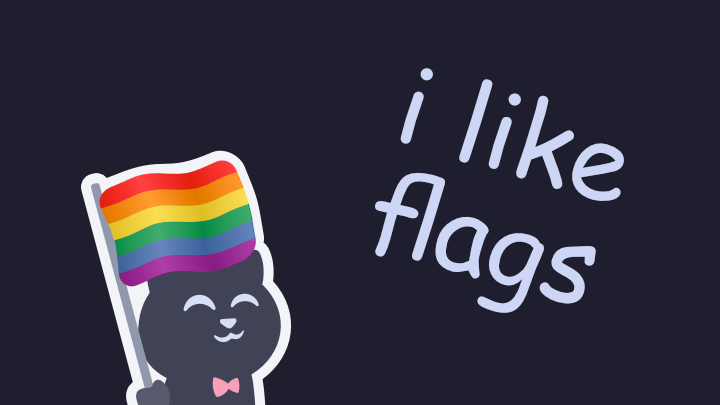
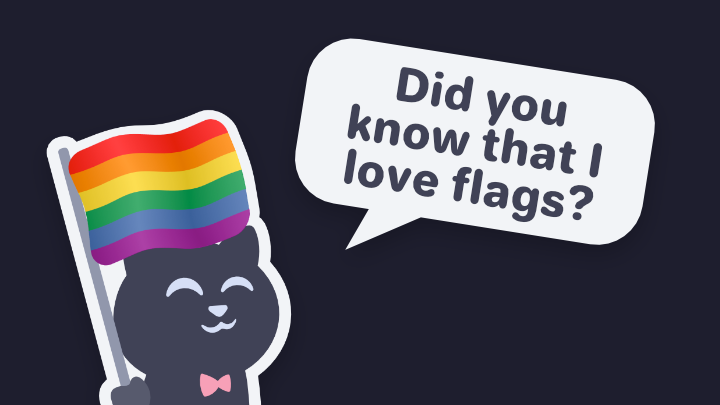
content(embed): better copy and image

diff --git a/index.html b/index.html
@@ -6,18 +6,30 @@
     <meta name="viewport" content="width=device-width, initial-scale=1.0" />
     <link rel="icon" type="image/svg+xml" href="/favicon.png" />
 
-    <title>Flaggerjack</title>
-    <meta name="description" content="Pepperjack holding flags; all of them!" />
+    <title>Pepperjack Loves Flags</title>
+    <meta
+      name="description"
+      content="Pick a flag, see Pepperjack hold it, download the image. Really! It’s that simple (and cute). Not an official Catppuccin product!™"
+    />
 
-    <meta property="og:url" content="https://flaggerjack.unseen.ninja" />
-    <meta property="og:title" content="Flaggerjack" />
-    <meta property="og:description" content="Pepperjack holding flags; all of them!" />
-    <meta property="og:description" content="Pepperjack holding flags; all of them!" />
+    <meta property="og:url" content="https://Pepperjack Loves Flags.unseen.ninja" />
+    <meta property="og:title" content="Pepperjack Loves Flags" />
+    <meta
+      property="og:description"
+      content="Pick a flag, see Pepperjack hold it, download the image. Really! It’s that simple (and cute). Not an official Catppuccin product!™"
+    />
+    <meta
+      property="og:description"
+      content="Pick a flag, see Pepperjack hold it, download the image. Really! It’s that simple (and cute). Not an official Catppuccin product!™"
+    />
     <meta property="og:image" content="/embed.png" />
     <meta name="theme-color" content="#8819EC" data-react-helmet="true" />
 
-    <meta property="twitter:title" content="Flaggerjack" />
-    <meta property="twitter:description" content="Pepperjack holding flags; all of them!" />
+    <meta property="twitter:title" content="Pepperjack Loves Flags" />
+    <meta
+      property="twitter:description"
+      content="Pick a flag, see Pepperjack hold it, download the image. Really! It’s that simple (and cute). Not an official Catppuccin product!™"
+    />
     <meta name="twitter:card" content="summary_large_image" />
   </head>
   <body class="bg-ctp-base">
